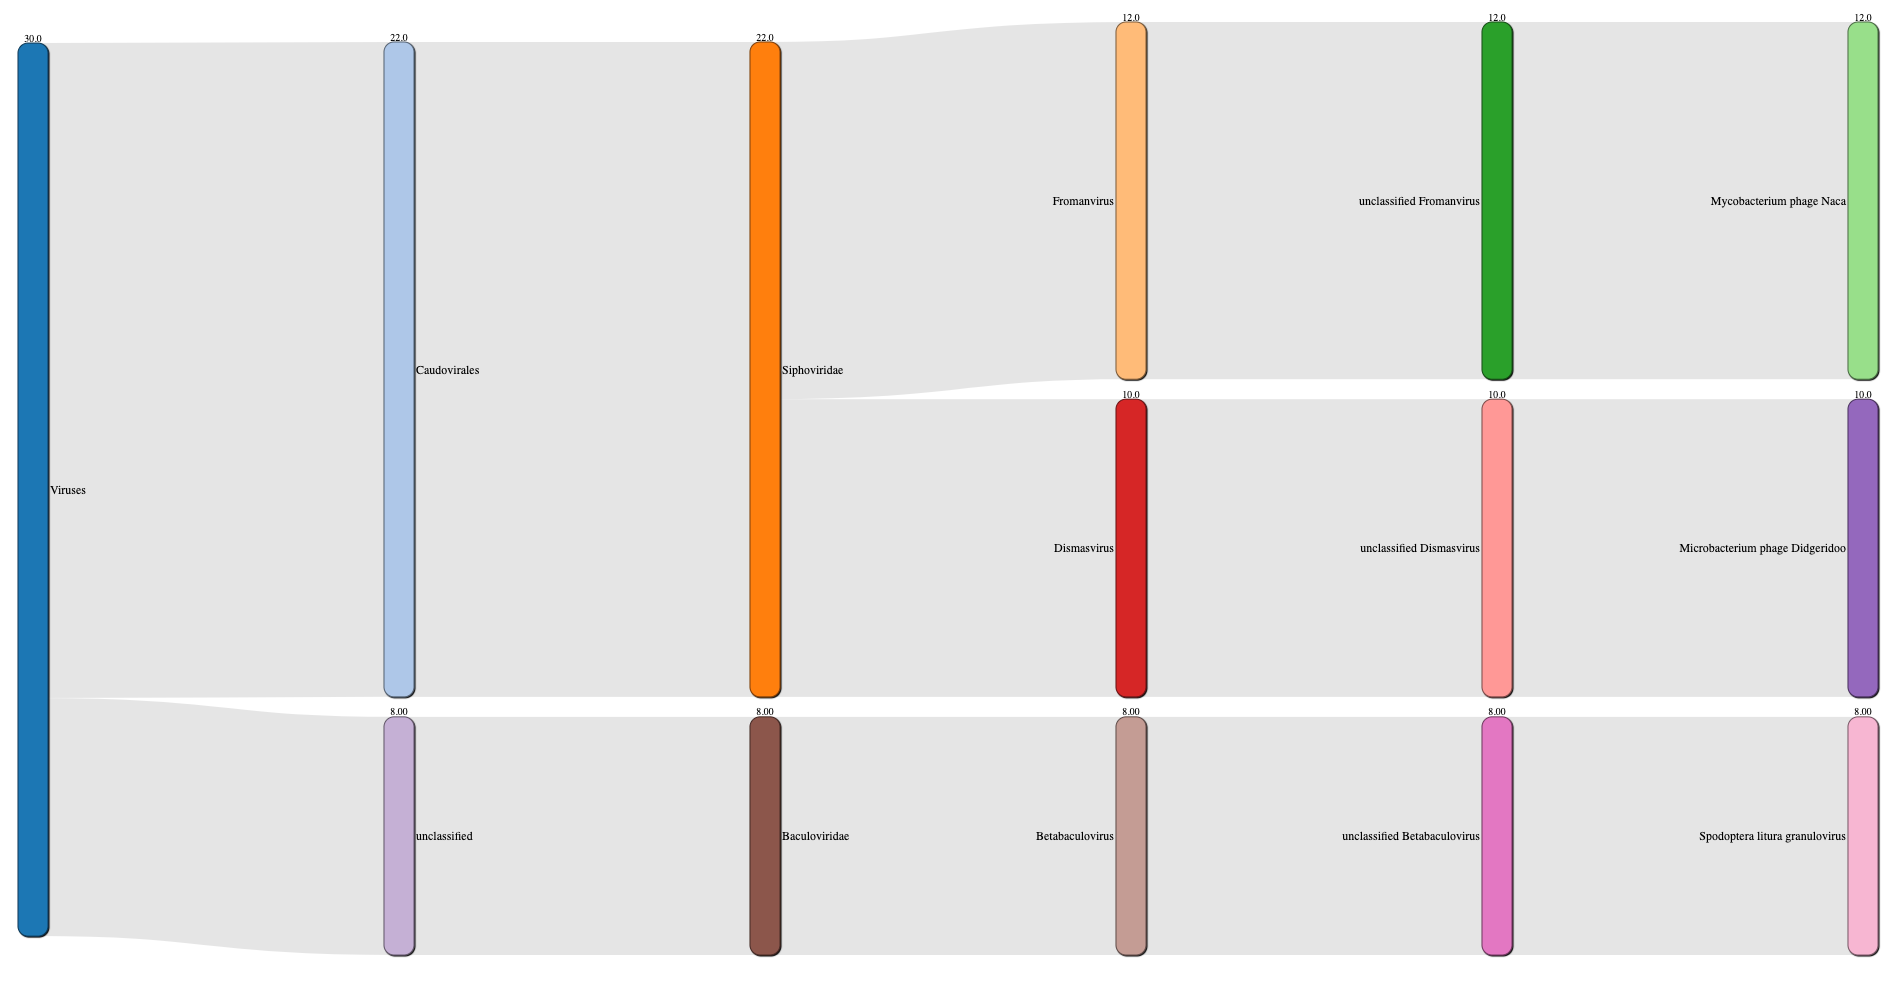
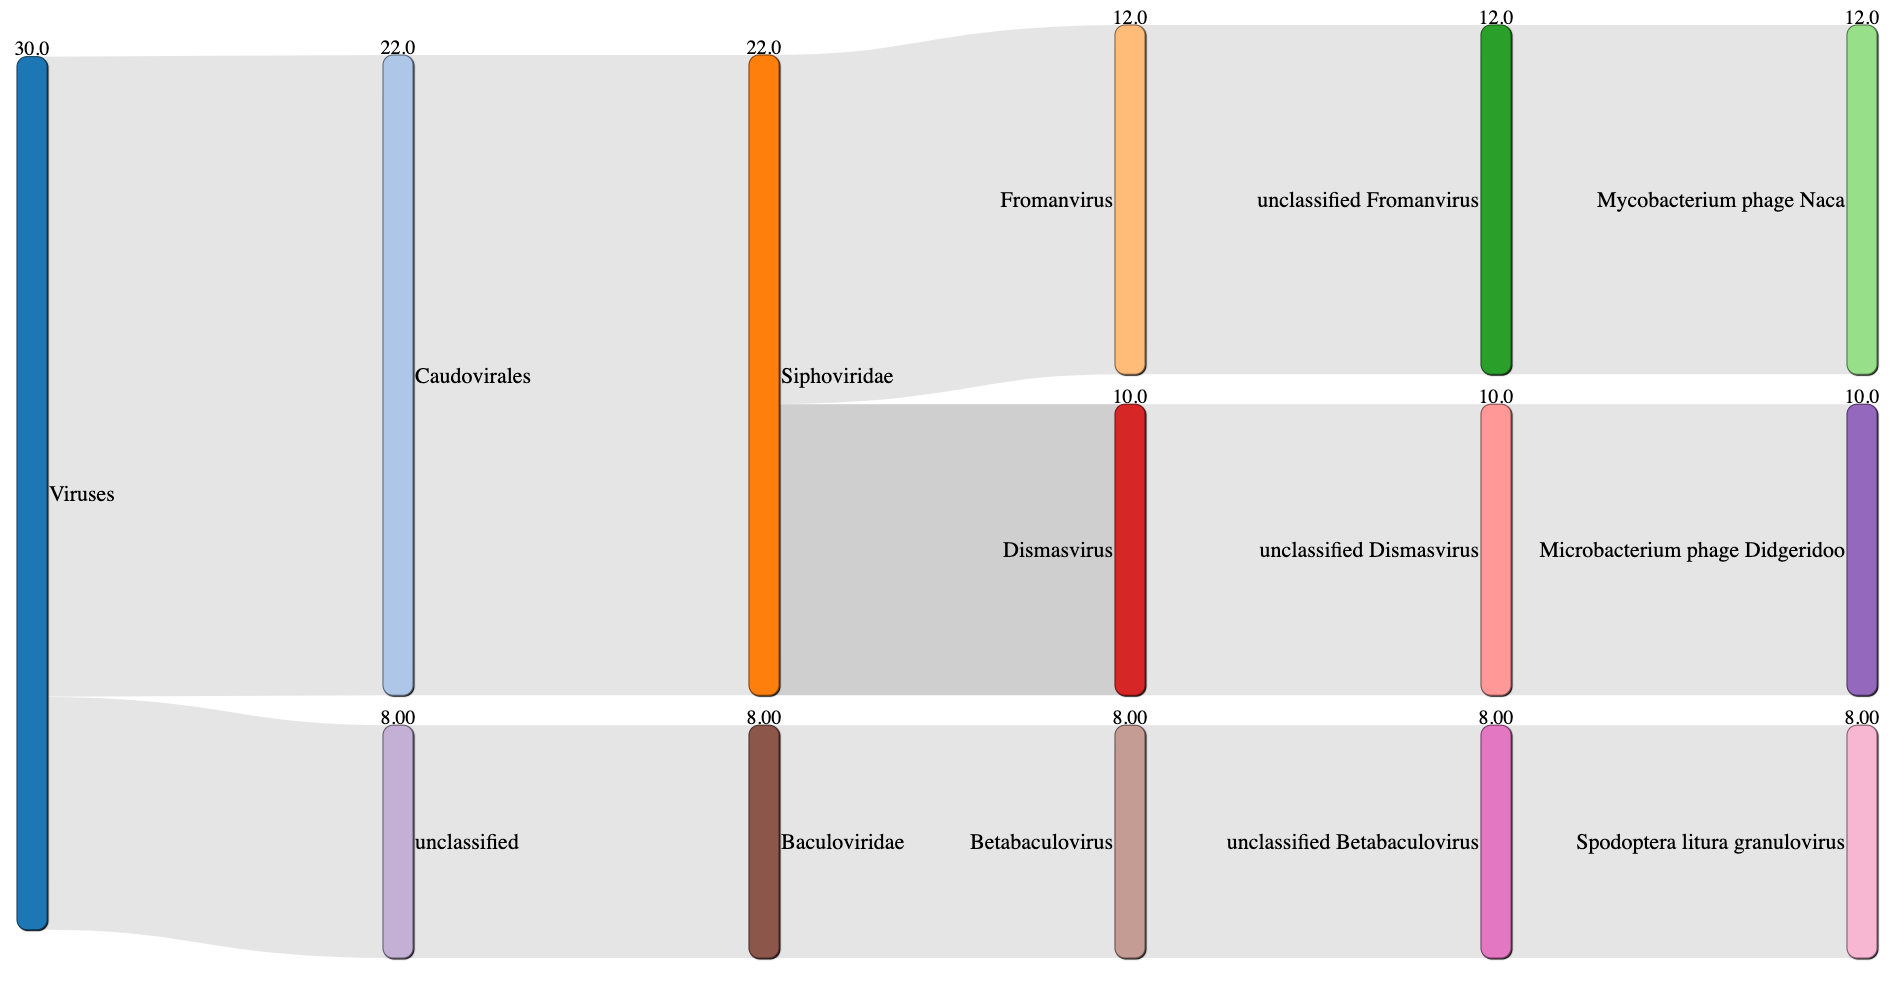
add example png

diff --git a/README.md b/README.md
@@ -1,5 +1,5 @@
 # sankey
-Build a Sankey plot from an input TSV file.
+Build a Sankey plot (in HTML format) from an input TSV file.
 
 ![Example](https://github.com/hoelzer/sankey/blob/master/viruses_sankey.png)
 
@@ -84,9 +84,8 @@ library(magrittr)
 Taxonomy <- jsonlite::fromJSON("test/viruses.csv.json")
 
 # show in browser
-sankeyNetwork(Links = Taxonomy$links, Nodes = Taxonomy$nodes, Source = "source", Target = "target", Value = "value", NodeID = "name", units = "count", fontSize = 12, nodeWidth = 30, nodeShadow = TRUE, nodePadding = 20, nodeStrokeWidth = 1, nodeCornerRadius = 10, dragY = TRUE, dragX = TRUE, numberFormat = ",.3g") 
+sankeyNetwork(Links = Taxonomy$links, Nodes = Taxonomy$nodes, Source = "source", Target = "target", Value = "value", NodeID = "name", units = "count", fontSize = 22, nodeWidth = 30, nodeShadow = TRUE, nodePadding = 30, nodeStrokeWidth = 1, nodeCornerRadius = 10, dragY = TRUE, dragX = TRUE, numberFormat = ",.3g")
 
 # print to HTML file
-sankeyNetwork(Links = Taxonomy$links, Nodes = Taxonomy$nodes, Source = "source", Target = "target", Value = "value", NodeID = "name", units = "count", fontSize = 12, nodeWidth = 30, nodeShadow = TRUE, nodePadding = 20, nodeStrokeWidth = 1, nodeCornerRadius = 10, dragY = TRUE, dragX = TRUE, numberFormat = ",.3g") %>% saveNetwork(file = 'viruses_sankey.html')
-
+sankeyNetwork(Links = Taxonomy$links, Nodes = Taxonomy$nodes, Source = "source", Target = "target", Value = "value", NodeID = "name", units = "count", fontSize = 22, nodeWidth = 30, nodeShadow = TRUE, nodePadding = 30, nodeStrokeWidth = 1, nodeCornerRadius = 10, dragY = TRUE, dragX = TRUE, numberFormat = ",.3g") %>% saveNetwork(file = 'viruses_sankey.html')
 ```
